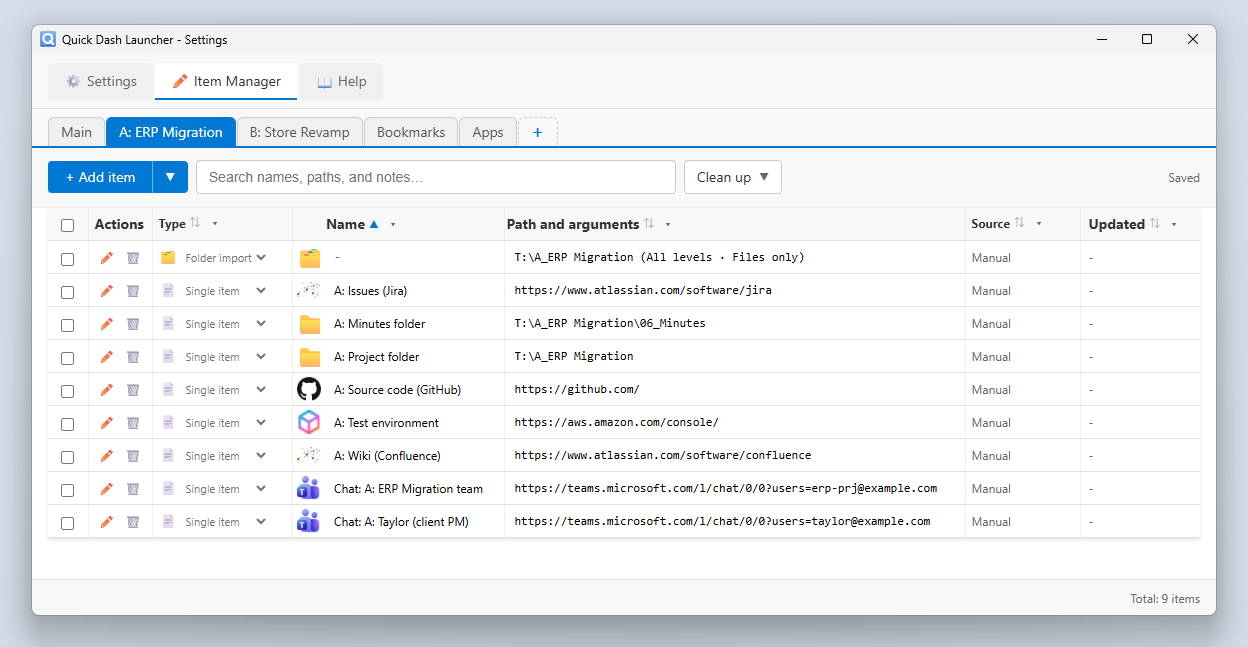
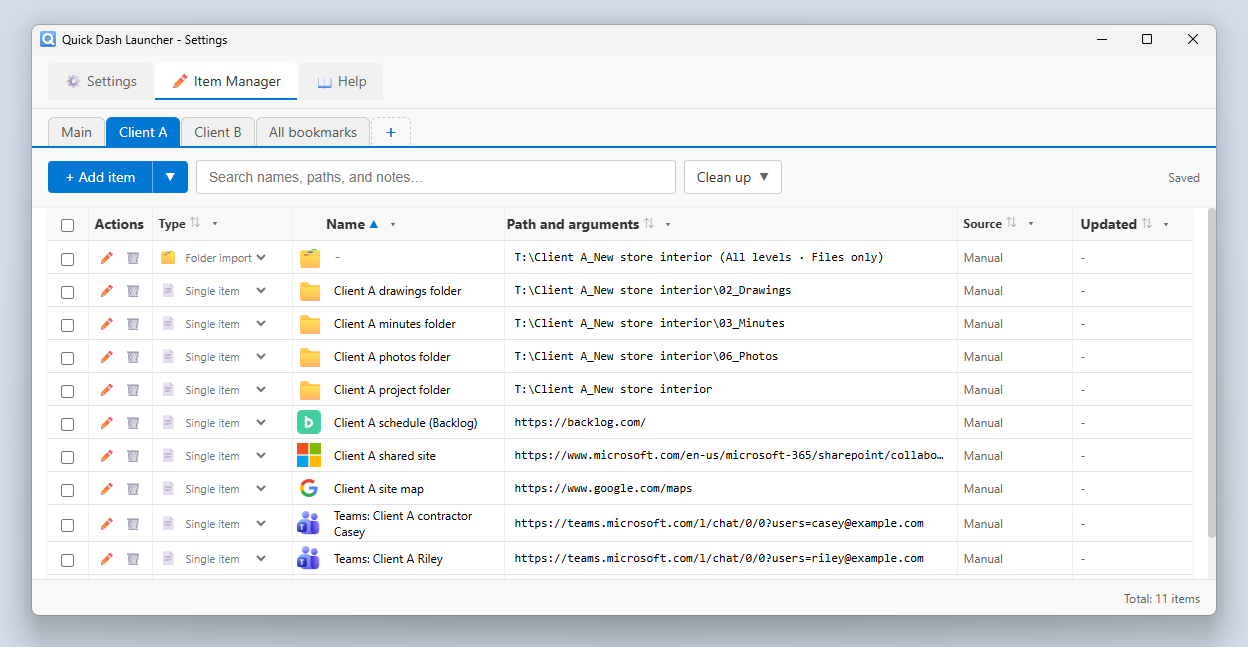
docs: README の画面イメージとワークスペースのデモ GIF を新しいデモデータで撮り直す
- 「登録と管理の画面」の画像（管理画面・フォルダ取込の登録画面。日英）を、#709 のデモデータ（A社案件・Client A）で撮り直す
- ワークスペースのデモ GIF（日英）: ワークスペースを画面の右上の角に付け、zoom を「毎日使う」へドラッグ → 切り離し → 📌 でピン留め → 畳む。撮る範囲をワークスペースの下端まで広げる
- ワークスペースのデモの撮影: 始まりをマゼンタの目印で決める／背景を撮るウィンドウのすぐ下に固定し、Windows で最前面どうしに段の差が無いので背景の後にワークスペース・ランチャーを前へ戻す／後から開くウィンドウも最前面に固定し、📌 の表示固定で外れたら付け直す
- 撮影の前にデモのフォルダを作り直す（画面イメージ・ワークスペースのデモ）
- README の画像の説明文（alt）とテストガイドを今の撮り方に合わせる

Claude-Session: https://claude.ai/code/session_019YhsGYyQTozhussf5wWCPN

diff --git a/tests/demo-gif/workspace-demo.spec.ts b/tests/demo-gif/workspace-demo.spec.ts
@@ -83,6 +83,8 @@ async function screenPoint(locator: Locator, win: Bounds, scale: number, dx = 0)
 test('ワークスペースのデモ', async () => {
   test.setTimeout(300000);
   const helper = ConfigFileHelper.createTempConfigDir('demo-gif-workspace', 'demo');
+  // 前の撮影で作ったフォルダが残っていると、データから外したファイルまで候補に出るので、作り直す
+  fs.rmSync(DEMO_ROOT, { recursive: true, force: true });
   writeDemoData(helper.getConfigDir(), DEMO_ROOT, LANG);
   writeDemoWorkspace(helper.getConfigDir(), DEMO_ROOT, LANG);
   fs.rmSync(OUT_DIR, { recursive: true, force: true });
@@ -129,19 +131,20 @@ test('ワークスペースのデモ', async () => {
     const targetHeader = ws.locator('.workspace-group-header', { hasText: groupName });
     await targetHeader.waitFor({ state: 'visible' });
 
-    // ランチャーをワークスペースの左隣に寄せ、両方を最前面に固定する
-    // ワークスペースを画面の右上の端から余白の分だけ離し、ランチャーをその左隣に寄せ、両方を最前面に固定する
+    // ワークスペースを画面の右上の角にくっつけ、ランチャーをその左隣に寄せ、両方を最前面に固定する
     const scale = await app.evaluate(
-      ({ BrowserWindow, screen }, { gap, margin }) => {
+      ({ BrowserWindow, screen }, { gap }) => {
         const ws = BrowserWindow.getAllWindows().find((bw) => bw.getTitle() === 'Workspace');
         const w = BrowserWindow.getAllWindows().find(
           (bw) => bw.getTitle() === 'Quick Dash Launcher'
         );
         if (!ws || !w) throw new Error('ウィンドウが見つかりません');
+        const area = screen.getDisplayMatching(ws.getBounds()).workArea;
         const wsb = ws.getBounds();
-        ws.setPosition(wsb.x - margin, wsb.y + margin);
+        const wsX = area.x + area.width - wsb.width;
+        ws.setPosition(wsX, area.y);
         const b = w.getBounds();
-        w.setPosition(wsb.x - margin - gap - b.width, wsb.y + margin + gap);
+        w.setPosition(wsX - gap - b.width, area.y + gap);
         w.show();
         for (const bw of BrowserWindow.getAllWindows()) {
           if (bw.isVisible()) bw.setAlwaysOnTop(true, 'screen-saver');
@@ -149,16 +152,21 @@ test('ワークスペースのデモ', async () => {
         w.focus();
         return screen.getPrimaryDisplay().scaleFactor;
       },
-      { gap: GAP, margin: BACKDROP_MARGIN }
+      { gap: GAP }
     );
     const wsBounds = await contentBounds(app, 'Workspace');
     const mainBounds = await contentBounds(app, 'Quick Dash Launcher');
 
-    // 撮る範囲: ランチャーの左からワークスペースの右まで、ワークスペースの上からランチャーの下まで（周りに余白）
+    // 撮る範囲: ランチャーの左からワークスペースの右（画面の右端）まで、ワークスペースの上（画面の上端）から下端まで
+    // （画面の端に付けた右と上には余白を取らない）
     const left = mainBounds.x - BACKDROP_MARGIN;
-    const top = wsBounds.y - BACKDROP_MARGIN;
-    const right = wsBounds.x + wsBounds.width + BACKDROP_MARGIN;
-    const bottom = mainBounds.y + mainBounds.height + BACKDROP_MARGIN;
+    const top = wsBounds.y;
+    const right = wsBounds.x + wsBounds.width;
+    // 下はワークスペースの下端まで（ワークスペース全体を写す）。ランチャーのほうが下に出るときはその下に余白
+    const bottom = Math.max(
+      mainBounds.y + mainBounds.height + BACKDROP_MARGIN,
+      wsBounds.y + wsBounds.height
+    );
     const rect = {
       logicalWidth: right - left,
       x: Math.round(left * scale),
@@ -166,11 +174,35 @@ test('ワークスペースのデモ', async () => {
       width: Math.round((right - left) * scale),
       height: Math.round((bottom - top) * scale),
     };
+    // 背景は撮るウィンドウのすぐ下に固定し、撮影中に前へ出た他のアプリ（ターミナルなど）が余白に写らないようにする。
+    // 後から開く切り離しウィンドウが背景の下に隠れないよう、新しく開くウィンドウも最前面に固定する
+    await app.evaluate(({ app: electronApp }) => {
+      electronApp.on('browser-window-created', (_event, bw) => {
+        bw.setAlwaysOnTop(true, 'screen-saver');
+        // 📌 の表示固定は最前面を外す（setAlwaysOnTop(false)）ので、撮影中は外れたら付け直す（背景の下に隠れないように）
+        bw.on('always-on-top-changed', (_e, isOnTop) => {
+          if (!isOnTop) bw.setAlwaysOnTop(true, 'screen-saver');
+        });
+      });
+    });
     await showBackdrop(
       app,
       { x: left, y: top, width: right - left, height: bottom - top },
-      'Quick Dash Launcher'
+      'Quick Dash Launcher',
+      { pinned: true }
     );
+    // Windows では最前面に固定したウィンドウどうしに段の違いが無く、後から前へ出した背景がワークスペースを隠すので、
+    // ワークスペース・ランチャーの順に前へ戻す（フォーカスはランチャー）
+    await app.evaluate(({ BrowserWindow }) => {
+      for (const title of ['Workspace', 'Quick Dash Launcher']) {
+        BrowserWindow.getAllWindows()
+          .find((bw) => bw.isVisible() && bw.getTitle() === title)
+          ?.moveTop();
+      }
+      BrowserWindow.getAllWindows()
+        .find((bw) => bw.getTitle() === 'Quick Dash Launcher')
+        ?.focus();
+    });
     await input.focus();
 
     // マウスはランチャーの入力欄の脇で待たせる。ドロップの後は、ツールチップが出ないよう空いている所へ逃がす
@@ -181,7 +213,6 @@ test('ワークスペースのデモ', async () => {
     };
 
     const videoFile = 'capture.mkv';
-    const recordStart = Date.now();
     const ffmpeg = spawn(
       'ffmpeg',
       [
@@ -212,8 +243,35 @@ test('ワークスペースのデモ', async () => {
       ],
       { cwd: OUT_DIR, stdio: ['pipe', 'inherit', 'inherit'] }
     );
-    await main.waitForTimeout(1500);
-    const startSec = Math.max(0, (Date.now() - recordStart) / 1000 - 0.7);
+    // どこから GIF にするかは動画の中の目印で決める（メインデモと同じ。録画の開始の遅れで最初の場面が切れないように）。
+    // 録り始めを十分待ってから、撮る範囲全体をマゼンタのウィンドウで 0.5 秒覆い、消した瞬間を GIF の始まりにする
+    await main.waitForTimeout(3000);
+    await app.evaluate(
+      ({ BrowserWindow }, b) => {
+        const marker = new BrowserWindow({
+          ...b,
+          frame: false,
+          resizable: false,
+          focusable: false,
+          skipTaskbar: true,
+          backgroundColor: '#ff00ff',
+          show: false,
+        });
+        marker.setAlwaysOnTop(true, 'screen-saver');
+        marker.showInactive();
+        marker.moveTop();
+        (globalThis as { __demoMarker?: { destroy(): void } }).__demoMarker = marker;
+      },
+      { x: left, y: top, width: right - left, height: bottom - top }
+    );
+    await main.waitForTimeout(500);
+    await app.evaluate(() => {
+      const g = globalThis as { __demoMarker?: { destroy(): void } };
+      g.__demoMarker?.destroy();
+      g.__demoMarker = undefined;
+    });
+    const markerGone = Date.now();
+    await main.waitForTimeout(1200);
 
     // 1. ランチャーで候補を出し、ワークスペースのグループへドラッグして入れる
     await main.keyboard.type(CONTENT.workspace.search, { delay: TYPE_DELAY_MS });
@@ -254,9 +312,20 @@ test('ワークスペースのデモ', async () => {
     await mouse.glideTo(restPoint, 500);
     await main.waitForTimeout(1200);
 
-    // 4. 切り離しウィンドウの見出しをクリックして畳むと、ウィンドウが見出しだけの大きさに縮む
+    // 4. 切り離しウィンドウを 📌 でピン留めする（ほかのウィンドウを使っても隠れない）
     const detachedTitle = `${groupName} - Quick Dash Launcher`;
     const detached = await findWindow(app, detachedTitle);
+    const pinBtn = detached.locator('.pin-btn').first();
+    await pinBtn.waitFor({ state: 'visible' });
+    const pin = await screenPoint(pinBtn, await contentBounds(app, detachedTitle), scale);
+    await mouse.glideTo(pin, 600);
+    await main.waitForTimeout(300);
+    await mouse.click();
+    await main.waitForTimeout(500);
+    await mouse.glideTo(restPoint, 500);
+    await main.waitForTimeout(1000);
+
+    // 5. 切り離しウィンドウの見出しをクリックして畳むと、ウィンドウが見出しだけの大きさに縮む
     // クリックしたグループに付く貼り付け先の枠（黄色）は、畳んで縮む様子の邪魔になるので撮影では出さない
     await detached.addStyleTag({
       content: '.workspace-group-header.paste-target { outline: none !important; }',
@@ -270,14 +339,19 @@ test('ワークスペースのデモ', async () => {
     await mouse.glideTo(restPoint, 500);
     await main.waitForTimeout(2000);
 
-    const endSec = (Date.now() - recordStart) / 1000;
+    // 目印が消えてから最後までの長さ（GIF の長さ）
+    const durationSec = (Date.now() - markerGone) / 1000;
     await new Promise<void>((resolve) => {
       ffmpeg.on('close', () => resolve());
       ffmpeg.stdin?.write('q');
     });
     fs.writeFileSync(
       path.join(OUT_DIR, 'meta.json'),
-      JSON.stringify({ video: videoFile, startSec, endSec, width: rect.logicalWidth }, null, 2)
+      JSON.stringify(
+        { video: videoFile, marker: true, durationSec, width: rect.logicalWidth },
+        null,
+        2
+      )
     );
   } finally {
     await mouse.stop().catch(() => {});

diff --git a/tests/demo-gif/demo-backdrop.ts b/tests/demo-gif/demo-backdrop.ts
@@ -33,7 +33,8 @@ export interface Bounds {
  *
  * デスクトップの壁紙や他のアプリを写さず、ウィンドウの周りの余白に色を付けるため。
  * 既定では最前面に固定しない（撮るウィンドウは setAlwaysOnTop で上に出し、後から開くウィンドウもこの上に出るように）。
- * 後からウィンドウを開かない撮影は pinned で固定する（撮影中に前へ出た他のアプリが余白に写らないように）。
+ * pinned で固定すると、撮影中に前へ出た他のアプリが余白に写らない。後からウィンドウを開く撮影では、そのウィンドウも
+ * 最前面に固定する（でないと背景の下に隠れる。ワークスペースのデモは browser-window-created で固定している）。
  * 敷いた後は focusTitle のウィンドウにフォーカスを戻す
  */
 export async function showBackdrop(

diff --git a/tests/demo-gif/readme-images.spec.ts b/tests/demo-gif/readme-images.spec.ts
@@ -41,6 +41,8 @@ const imagePath = (name: string): string =>
 
 /** DEMO_DIR を空いているドライブに割り当て、そのルート（例: S:\）を返す */
 function mapDemoDrive(): string {
+  // 前の撮影で作ったフォルダが残っていると、データから外したファイルまで写るので、作り直す
+  fs.rmSync(DEMO_DIR, { recursive: true, force: true });
   fs.mkdirSync(DEMO_DIR, { recursive: true });
   for (const letter of ['S', 'T', 'Q', 'P', 'R', 'W']) {
     if (fs.existsSync(`${letter}:\\`)) continue;

diff --git a/tests/demo-gif/demo-content-ja.ts b/tests/demo-gif/demo-content-ja.ts
@@ -522,8 +522,8 @@ export const jaContent: DemoContent = {
         items: ['B社 案件フォルダ', 'B社 展示会の公式サイト', 'Teams: B社 チーム'],
       },
     ],
-    search: 'a社 田中',
-    targetGroup: 1,
+    search: 'zoom',
+    targetGroup: 0,
   },
 
   shots: {

diff --git a/tests/demo-gif/demo-content-en.ts b/tests/demo-gif/demo-content-en.ts
@@ -483,8 +483,8 @@ export const enContent: DemoContent = {
         items: ['Client B project folder', 'Client B trade show site', 'Teams: Client B team'],
       },
     ],
-    search: 'client a riley',
-    targetGroup: 1,
+    search: 'zoom',
+    targetGroup: 0,
   },
 
   shots: {

diff --git a/docs/testing/README.md b/docs/testing/README.md
@@ -74,7 +74,7 @@ npx playwright test -g "新規アイテムを登録できる"                   
   - main へのマージ後 → CI が自動で全件を流す。落ちたら Artifacts の画像・トレースを見て、手元でその spec を再現して直す
   - リリースの前 → main の最新の E2E が通っていることを確かめる（[/release-version](../../.claude/commands/git-workflow/release-version.md) の事前要件）
 - **README のデモ GIF の撮影**: `npm run docs:demo-gif`（`tests/demo-gif/` がデモデータ（4 タブ。メインに普段使いとアプリで約 80 件、案件のタブにフォルダ取込のファイル、ブックマークに約 220 件。中身は `demo-content-ja.ts`、書き出しは `demo-data.ts`）で起動して操作し、ffmpeg の画面キャプチャでランチャーの範囲を録画する。台本は「goo → goo map」「Teams で並べて矢印キーで選ぶ」「呼び名（sato）で 1 件に」「タブを一巡」「案件のタブで日付（10-10）で議事録」「メインに無いもの（楽天）を Tab でブックマークへ見に行く」。場面の間は画面を一瞬真っ暗にし、次の場面を明転で始める。録画の始めに画面全体を一瞬マゼンタで覆う目印を出し、`scripts/make-demo-gif.mjs` が動画からその目印が消えた時刻を探して、そこから `docs/images/demo-main.gif` にする（録画の開始の遅れや時計のずれで最初の場面が切れないように。目印は GIF に入らない）。データのサイトは、アイコンが取れるものだけにする（取れないと GIF で空いて見える）。英語の README 用は `npm run docs:demo-gif:en`（環境変数 `DEMO_LANG=en`。英語の画面と `demo-content-en.ts` のデータで撮り、`docs/images/demo-main-en.gif` にする）。撮影中はウィンドウが最前面に固定されるので、その範囲に他のウィンドウを重ねない。画面下の説明文（字幕）は既定では出さず、`DEMO_CAPTIONS=1` で出す。ffmpeg が要る。通常の E2E には含めない）
-- **README のワークスペースのデモ GIF の撮影**: `npm run docs:demo-gif-workspace`（英語版は `:en`）。メインデモと同じデータに、`demo-content-*.ts` の `workspace` のグループを入れたワークスペースで起動する。ランチャーで探したファイルをワークスペースのグループへドラッグし、ランチャーを隠した後、そのグループをワークスペースの外へドラッグして切り離す。ウィンドウをまたぐドラッグは Playwright のマウスでは起こせないので、`os-mouse.ts` が PowerShell から OS のマウスを動かす（撮影中はマウスに触れない）。撮る範囲（プライマリディスプレイの右上、ランチャーからワークスペースまで）の後ろには無地のウィンドウを敷き、壁紙や他のアプリを写さない。`docs/images/demo-workspace.gif`（英語は `demo-workspace-en.gif`）にする
+- **README のワークスペースのデモ GIF の撮影**: `npm run docs:demo-gif-workspace`（英語版は `:en`）。メインデモと同じデータに、`demo-content-*.ts` の `workspace` のグループを入れたワークスペースで起動する。ワークスペースを画面の右上の角に付け、ランチャーをその左隣に置く。ランチャーで探したアイテム（zoom）をワークスペースの「毎日使う」グループへドラッグし、ランチャーを隠した後、そのグループをワークスペースの外へドラッグして切り離し、📌 でピン留めして、見出しで畳む。ウィンドウをまたぐドラッグは Playwright のマウスでは起こせないので、`os-mouse.ts` が PowerShell から OS のマウスを動かす（撮影中はマウスに触れない）。撮る範囲（プライマリディスプレイの右上、ランチャーからワークスペースの下端まで）の後ろには無地のウィンドウを敷き、撮るウィンドウのすぐ下に固定して、壁紙や撮影中に前へ出た他のアプリを写さない（後から開く切り離しウィンドウも最前面に固定し、📌 で外れたら付け直す）。始まりはメインデモと同じく、撮る範囲を一瞬覆うマゼンタの目印で決める。`docs/images/demo-workspace.gif`（英語は `demo-workspace-en.gif`）にする
 - **README の画面イメージの撮影**: `npm run docs:readme-images`（同じデモデータで起動し、README の「登録と管理の画面」に載せる管理画面・登録画面（単一アイテム・フォルダ取込）を `docs/images/readme-admin.png`・`readme-register-item.png`・`readme-register-dir.png` に保存する。英語の README 用は `npm run docs:readme-images:en` で、名前の末尾に `-en` を付けて保存する。画面にパスが写るので、デモ用のフォルダを `subst` で空いているドライブ（S: など）に割り当ててから撮り、終わったら外す。見比べ用の別案は `test-results/readme-images/`（英語は `readme-images-en/`）に置く。通常の E2E には含めない）
 - **画面イメージの撮影**: `npm run docs:screenshots`（`tests/screenshots/`。通常の E2E には含めない。決まりは [画面仕様書 執筆ガイドライン - 画面イメージ](../screens/WRITING-GUIDE.md#画面イメージ)）
 

diff --git a/README.md b/README.md
@@ -78,7 +78,7 @@ Many launchers, such as PowerToys Run and Command Palette, index every installed
 Edit everything you've added, tab by tab. To open it, select ⚙ > **Item Manager** in the launcher.
 
 <p align="center">
-  <img src="docs/images/readme-admin-en.png" alt="Item Manager in the settings window. A project tab lists a folder import, webpages, Teams chats, and more in a table." />
+  <img src="docs/images/readme-admin-en.png" alt="Item Manager in the settings window. A client tab lists a folder import, folders, webpages, Teams chats, and more in a table." />
 </p>
 
 ### Add item
@@ -106,7 +106,7 @@ Set the type to **Folder import** to add all the files in a folder to the list.
 The workspace is a separate window that keeps the things you use most at the edge of your screen. To open it, select ⭐ in the launcher or press `Ctrl+W`. Unlike the launcher, it stays visible while you work in other windows.
 
 <p align="center">
-  <img src="docs/images/demo-workspace-en.gif" alt="An item found by typing wi c in the launcher is dragged into a workspace group. The group is then dragged out of the workspace into a window of its own and collapsed by clicking its header." />
+  <img src="docs/images/demo-workspace-en.gif" alt="Zoom, found by typing zoom in the launcher, is dragged into the Daily group in the workspace. The group is then dragged out of the workspace into a window of its own, pinned with the 📌 button, and collapsed by clicking its header." />
 </p>
 
 - **Add items**: Right-click an item in the launcher, or drag it to the workspace. You can also drag files and URLs, or copy a path or text and press `Ctrl+V` in the workspace.
